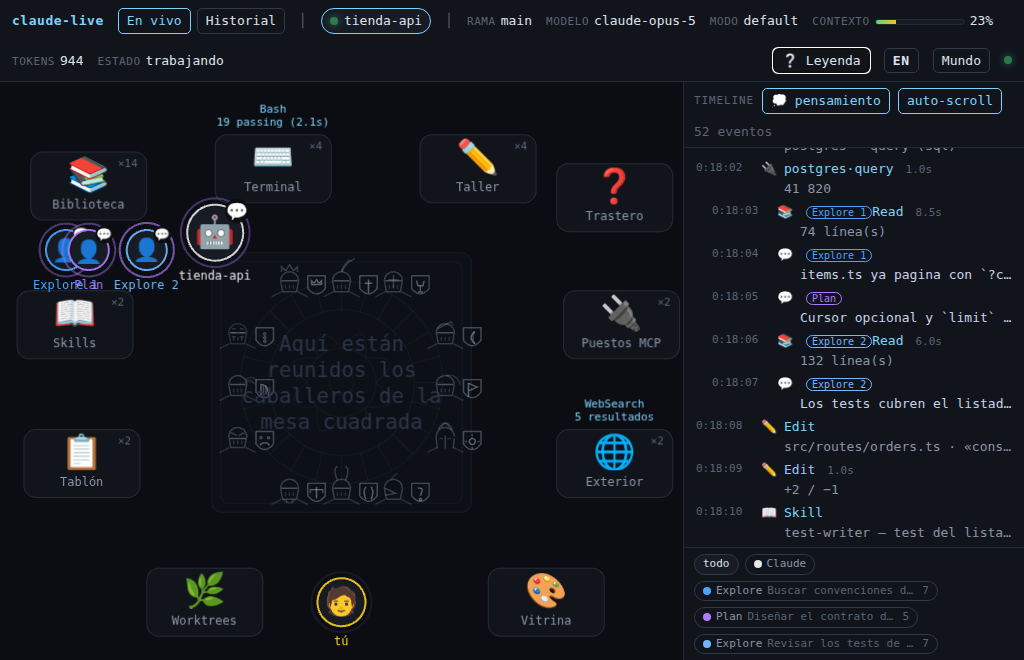
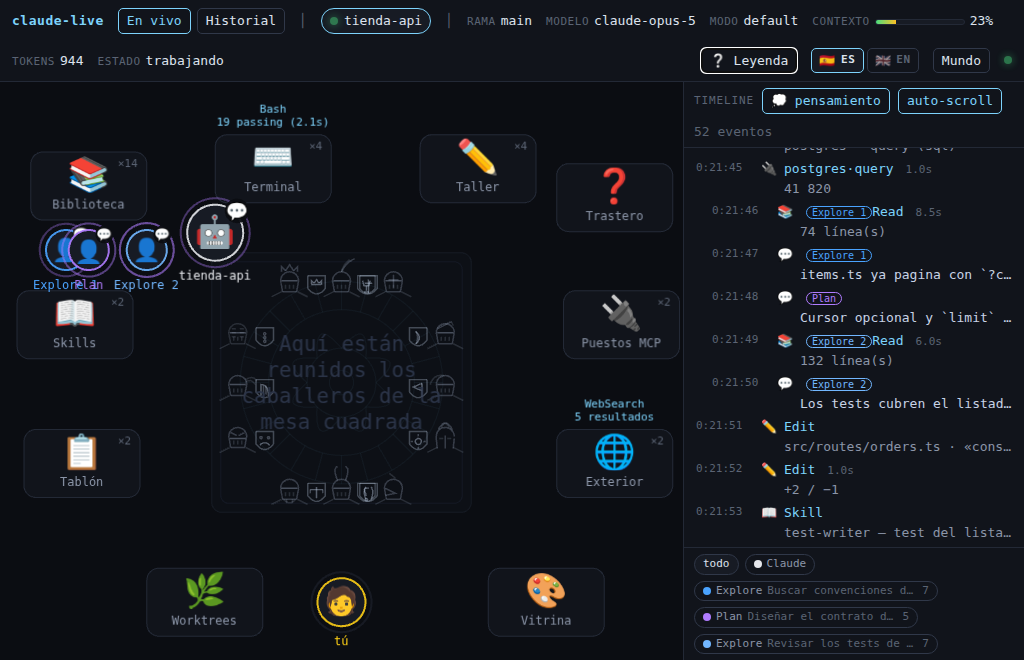
Banderas en el conmutador y escudos que no se salen de la mesa
El conmutador muestra las dos lenguas a la vez, 🇪🇸 ES y 🇬🇧 EN, con la activa
resaltada: así se ve de un vistazo que la interfaz está traducida y en qué idioma
está. La bandera acompaña al código y no lo sustituye, porque una bandera es un
país y no un idioma.

Y el apunte de Sir Robin: el escudo se dibujaba siempre a la derecha del yelmo, así
que los caballeros del lado derecho lo dejaban fuera del tablero. Ahora se apoya
hacia el interior de la mesa, y el emblema se espeja para que las figuras
asimétricas —la bandera, la luna— sigan mirando hacia dentro. Lo mismo con el
penacho, la pluma caída, las plumas de músico y el pico del bacinete.

diff --git a/web/src/world/Scene.ts b/web/src/world/Scene.ts
@@ -462,7 +462,17 @@ export class Scene {
         const y = cy + ny * inset + nx * offset
         const index = side * perSide + seat
         const knight = KNIGHTS[index]
-        this.drawKnight(x, y, knight?.helmet, knight?.crest, index === this.hoveredKnight)
+        // El escudo se apoya hacia el interior del tablero: si fuese siempre a la derecha,
+        // los caballeros del lado derecho lo dejarían fuera de la mesa.
+        const shieldDir = x <= cx ? 1 : -1
+        this.drawKnight(
+          x,
+          y,
+          knight?.helmet,
+          knight?.crest,
+          index === this.hoveredKnight,
+          shieldDir,
+        )
         this.knightHits[index]?.position.set(x, y)
       }
     }
@@ -482,6 +492,7 @@ export class Scene {
     helmet?: Helmet,
     crest?: Crest,
     highlighted = false,
+    shieldDir: 1 | -1 = 1,
   ): void {
     const g = this.deskZone
     const ink = {
@@ -540,13 +551,17 @@ export class Scene {
         g.moveTo(x - 4, y - 8).lineTo(x, y - 14).lineTo(x + 4, y - 8).stroke(ink)
         g.moveTo(x + 4, y - 8).lineTo(x + 8, y - 12).lineTo(x + 8, y - 7).stroke(ink)
         break
-      case 'plumed':
-        // Penacho alto y airoso.
+      case 'plumed': {
+        // Penacho alto y airoso, cayendo hacia el interior de la mesa.
+        const d = shieldDir
         g.moveTo(x, y - 7)
-          .quadraticCurveTo(x + 5, y - 17, x + 13, y - 20)
+          .quadraticCurveTo(x + 5 * d, y - 17, x + 13 * d, y - 20)
           .stroke(ink)
-        g.moveTo(x, y - 7).quadraticCurveTo(x + 2, y - 15, x + 8, y - 19).stroke(soft)
+        g.moveTo(x, y - 7)
+          .quadraticCurveTo(x + 2 * d, y - 15, x + 8 * d, y - 19)
+          .stroke(soft)
         break
+      }
       case 'crossed':
         // Cruz sobre la visera: el puro.
         g.moveTo(x, y - 4).lineTo(x, y + 9).stroke(ink)
@@ -557,12 +572,14 @@ export class Scene {
         g.moveTo(x - 8, y - 2).lineTo(x + 6, y - 9).stroke(ink)
         g.moveTo(x + 6, y - 9).lineTo(x + 8, y - 5).stroke(soft)
         break
-      case 'droopy':
+      case 'droopy': {
         // Pluma caída: la valentía justa.
-        g.moveTo(x + 1, y - 7)
-          .quadraticCurveTo(x + 12, y - 9, x + 15, y + 2)
+        const d = shieldDir
+        g.moveTo(x + 1 * d, y - 7)
+          .quadraticCurveTo(x + 12 * d, y - 9, x + 15 * d, y + 2)
           .stroke(soft)
         break
+      }
       case 'corinthian':
         // Cresta alta, de lado a lado.
         g.moveTo(x - 7, y - 5)
@@ -571,7 +588,7 @@ export class Scene {
         g.moveTo(x - 4, y - 7).quadraticCurveTo(x, y - 15, x + 4, y - 7).stroke(soft)
         break
       case 'beaked':
-        g.moveTo(x - 2, y - 8).lineTo(x + 4, y - 13).stroke(soft)
+        g.moveTo(x - 2 * shieldDir, y - 8).lineTo(x + 4 * shieldDir, y - 13).stroke(soft)
         break
       case 'eared':
         // Dos orejas largas. Nadie ha querido preguntarle por qué.
@@ -589,11 +606,17 @@ export class Scene {
         g.moveTo(x - 7, y - 2).lineTo(x - 1, y + 1).stroke(ink)
         g.moveTo(x + 7, y - 2).lineTo(x + 1, y + 1).stroke(ink)
         break
-      case 'sidefeather':
+      case 'sidefeather': {
         // Plumas laterales, de músico.
-        g.moveTo(x + 8, y - 3).quadraticCurveTo(x + 16, y - 8, x + 19, y - 1).stroke(soft)
-        g.moveTo(x + 8, y - 1).quadraticCurveTo(x + 15, y - 4, x + 17, y + 2).stroke(soft)
+        const d = shieldDir
+        g.moveTo(x + 8 * d, y - 3)
+          .quadraticCurveTo(x + 16 * d, y - 8, x + 19 * d, y - 1)
+          .stroke(soft)
+        g.moveTo(x + 8 * d, y - 1)
+          .quadraticCurveTo(x + 15 * d, y - 4, x + 17 * d, y + 2)
+          .stroke(soft)
         break
+      }
       case 'ghost':
         // Yelmo insinuado: solo sale en los créditos.
         for (const dy of [-2, 2, 6]) {
@@ -603,14 +626,20 @@ export class Scene {
         break
     }
 
-    if (crest) this.drawCrest(crest, x + 27, y + 7, highlighted)
+    if (crest) this.drawCrest(crest, x + 27 * shieldDir, y + 7, highlighted, shieldDir)
   }
 
   /**
    * Escudo con el emblema del caballero. Vertical, apoyado junto al yelmo; el emblema se
    * dibuja dentro en coordenadas locales (`a` a lo alto, `b` a lo ancho).
    */
-  private drawCrest(crest: Crest, x: number, y: number, highlighted = false): void {
+  private drawCrest(
+    crest: Crest,
+    x: number,
+    y: number,
+    highlighted = false,
+    flip: 1 | -1 = 1,
+  ): void {
     const g = this.deskZone
     const k = highlighted ? 1.9 : 1.25
     const ink = {
@@ -618,7 +647,9 @@ export class Scene {
       color: highlighted ? 0xffe6a3 : 0xc3d3ea,
       alpha: highlighted ? 0.95 : 0.4,
     } as const
-    const at = (b: number, a: number): [number, number] => [x + b * k, y + a * k]
+    // `flip` espeja el emblema cuando el escudo está al otro lado, para que las figuras
+    // asimétricas (la bandera, la luna) sigan mirando hacia el tablero.
+    const at = (b: number, a: number): [number, number] => [x + b * k * flip, y + a * k]
 
     // Contorno del escudo: recto arriba, en punta abajo.
     g.moveTo(...at(-7, -8))

diff --git a/web/src/components/Hud.vue b/web/src/components/Hud.vue
@@ -32,7 +32,8 @@ const L = {
   world: { es: 'Mundo', en: 'World' },
   connected: { es: 'conectado al servidor', en: 'connected to the server' },
   reconnecting: { es: 'reconectando…', en: 'reconnecting…' },
-  langTitle: { es: 'Cambiar a inglés', en: 'Switch to Spanish' },
+  toSpanish: { es: 'Interfaz en castellano', en: 'Switch the interface to Spanish' },
+  toEnglish: { es: 'Cambiar la interfaz a inglés', en: 'Interface in English' },
 }
 
 const props = defineProps<{ view: 'live' | 'history' }>()
@@ -141,13 +142,24 @@ const statusLabel = computed(() => {
     <button :title="tr(L.legendTitle)" @click="emit('legend')">
       {{ tr(L.legend) }}
     </button>
-    <button
-      class="lang-switch"
-      :title="tr(L.langTitle)"
-      @click="setLang(lang === 'es' ? 'en' : 'es')"
-    >
-      {{ lang === 'es' ? 'EN' : 'ES' }}
-    </button>
+    <div class="lang-switch" role="group" aria-label="idioma / language">
+      <button
+        :class="{ active: lang === 'es' }"
+        :title="tr(L.toSpanish)"
+        lang="es"
+        @click="setLang('es')"
+      >
+        <span class="flag" aria-hidden="true">🇪🇸</span> ES
+      </button>
+      <button
+        :class="{ active: lang === 'en' }"
+        :title="tr(L.toEnglish)"
+        lang="en"
+        @click="setLang('en')"
+      >
+        <span class="flag" aria-hidden="true">🇬🇧</span> EN
+      </button>
+    </div>
     <button :class="{ active: state.soberMode }" @click="state.soberMode = !state.soberMode">
       {{ state.soberMode ? tr(L.sober) : tr(L.world) }}
     </button>

diff --git a/web/src/styles.css b/web/src/styles.css
@@ -332,10 +332,37 @@ button.active {
   white-space: nowrap;
 }
 
+ /* Las dos lenguas siempre visibles: así se ve que la interfaz está traducida y cuál está
+   activa. La bandera acompaña al código, que es el dato inequívoco. */
 .lang-switch {
+  display: flex;
+  gap: 3px;
+}
+
+.lang-switch button {
+  display: flex;
+  align-items: center;
+  gap: 5px;
+  font-size: 11px;
   font-weight: 700;
   letter-spacing: 0.06em;
-  min-width: 34px;
+  padding: 2px 7px;
+  color: var(--text-faint);
+}
+
+.lang-switch button.active {
+  border-color: var(--accent);
+  color: var(--text);
+  background: var(--bg-raised);
+}
+
+.lang-switch .flag {
+  font-size: 13px;
+  filter: saturate(0.9);
+}
+
+.lang-switch button:not(.active) .flag {
+  filter: saturate(0.35) opacity(0.7);
 }
 
 .reopen-replay {
